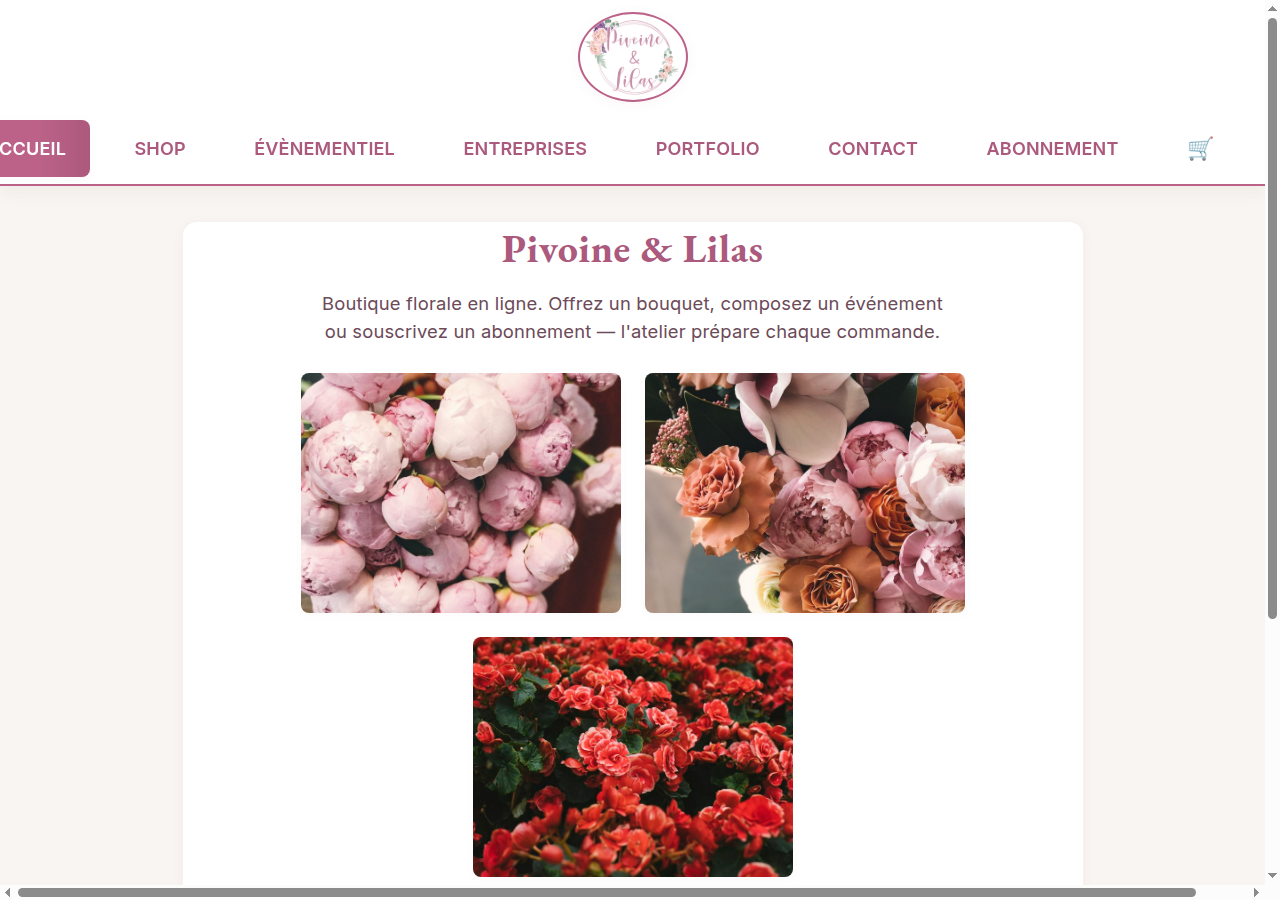
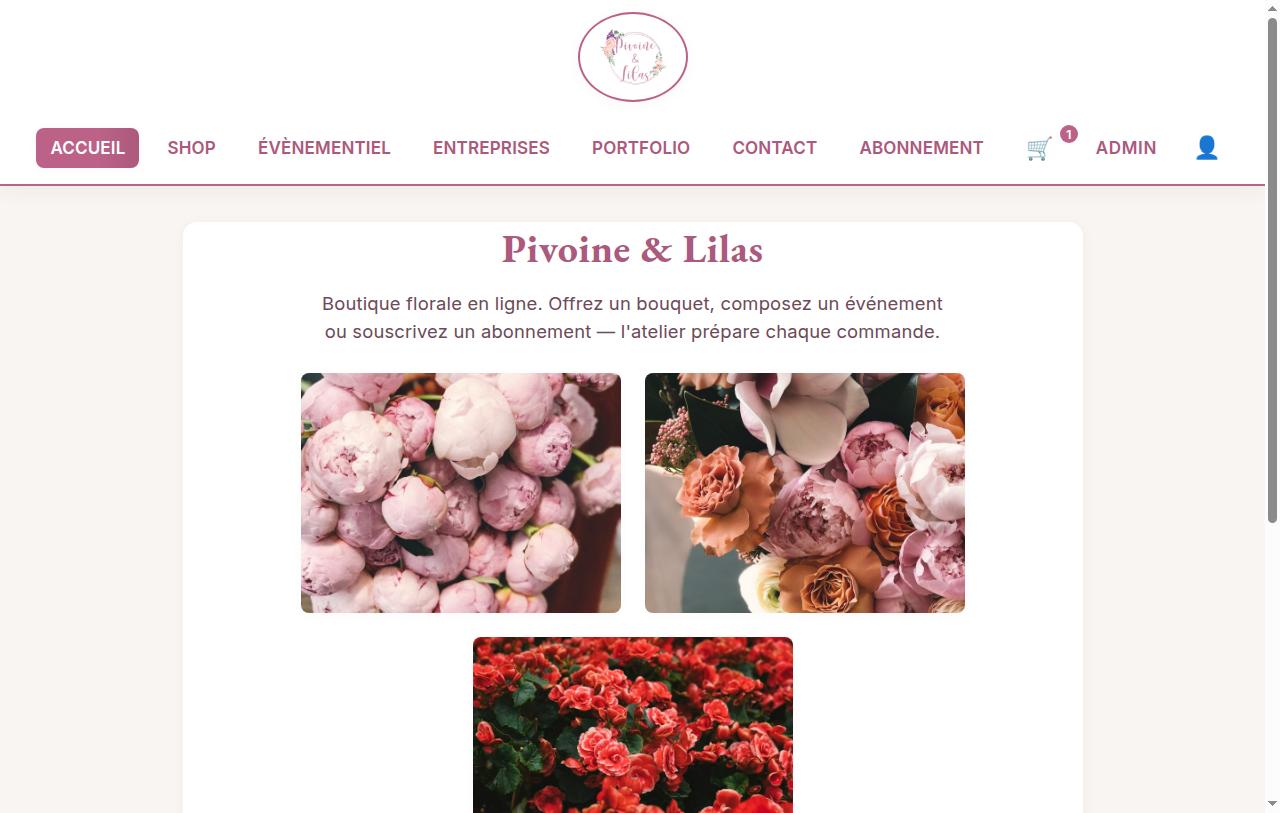
Show catalog prices on the server cart and refresh README shots.
Cart GET now fills name, photo, category and price from the catalog so
the panier no longer displays 0 € after a refresh. Accueil and atelier
screenshots match the local logo and tableau du jour.

diff --git a/Demoday/app/services/shop_ops.py b/Demoday/app/services/shop_ops.py
@@ -115,6 +115,17 @@ def _sanitize_items(raw):
             'image': str(item.get('image') or '')[:255] or None,
             'plan': str(item.get('plan') or '')[:40] or None,
         }
+        try:
+            price = float(item.get('price'))
+        except (TypeError, ValueError):
+            price = None
+        if price is not None and 0 <= price <= 10000:
+            payload['price'] = round(price, 2)
+        category = item.get('category')
+        if isinstance(category, dict):
+            category = category.get('name')
+        if category:
+            payload['category'] = str(category)[:80]
         if kind == 'subscription' or str(payload['id'] or '').startswith('subscription_'):
             payload['type'] = 'subscription'
         items.append(payload)
@@ -158,13 +169,48 @@ def _get_or_create_cart(user_id=None, token=None):
     return None
 
 
+def _enrich_items(items):
+    """Prix, nom et photo viennent du catalogue pour l’affichage panier."""
+    product_ids = []
+    for item in items:
+        if item.get('type') == 'subscription':
+            continue
+        try:
+            product_ids.append(int(item.get('product_id') or item.get('id')))
+        except (TypeError, ValueError):
+            continue
+    catalog = {}
+    if product_ids:
+        catalog = {
+            product.id: product
+            for product in Product.query.filter(Product.id.in_(product_ids)).all()
+        }
+    for item in items:
+        if item.get('type') == 'subscription':
+            continue
+        try:
+            product_id = int(item.get('product_id') or item.get('id'))
+        except (TypeError, ValueError):
+            continue
+        product = catalog.get(product_id)
+        if product is None:
+            continue
+        item['price'] = float(product.price)
+        item['name'] = product.name
+        if product.image:
+            item['image'] = product.image
+        if product.category:
+            item['category'] = product.category.name
+    return items
+
+
 def load_cart_items(user_id=None, token=None):
     cart = None
     if user_id:
         cart = Cart.query.filter_by(user_id=user_id).first()
     elif token:
         cart = Cart.query.filter_by(guest_token=token).first()
-    return _sanitize_items(_cart_payload(cart) if cart else [])
+    return _enrich_items(_sanitize_items(_cart_payload(cart) if cart else []))
 
 
 def save_cart_items(items, user_id=None, token=None):
@@ -174,7 +220,7 @@ def save_cart_items(items, user_id=None, token=None):
     cart.items_json = json.dumps(_sanitize_items(items), ensure_ascii=False)
     cart.updated_at = utc_now()
     db.session.commit()
-    return _sanitize_items(json.loads(cart.items_json))
+    return _enrich_items(_sanitize_items(json.loads(cart.items_json)))
 
 
 def merge_guest_into_user(user_id, token):
@@ -195,7 +241,7 @@ def merge_guest_into_user(user_id, token):
     user_cart.items_json = json.dumps(merged, ensure_ascii=False)
     user_cart.updated_at = utc_now()
     db.session.commit()
-    return merged
+    return _enrich_items(merged)
 
 
 def _item_key(item):

diff --git a/Demoday/tests/test_shop_ops.py b/Demoday/tests/test_shop_ops.py
@@ -74,6 +74,7 @@ class ShopOpsTestCase(unittest.TestCase):
         items = loaded.get_json()['items']
         self.assertEqual(len(items), 1)
         self.assertEqual(int(items[0]['quantity']), 2)
+        self.assertEqual(float(items[0]['price']), 29.99)
 
     def test_login_merges_guest_cart(self):
         self.client.put('/api/v1/cart', json={

diff --git a/README.md b/README.md
@@ -30,7 +30,9 @@ Boutique florale en ligne : le client choisit un bouquet, paie, et suit sa comma
 
 ![Paiement](docs/screenshots/checkout.png)
 
-![Atelier](docs/screenshots/admin-orders.png)
+![Atelier](docs/screenshots/admin-today.png)
+
+![Commandes](docs/screenshots/admin-orders.png)
 
 ## Lancer le projet
 
